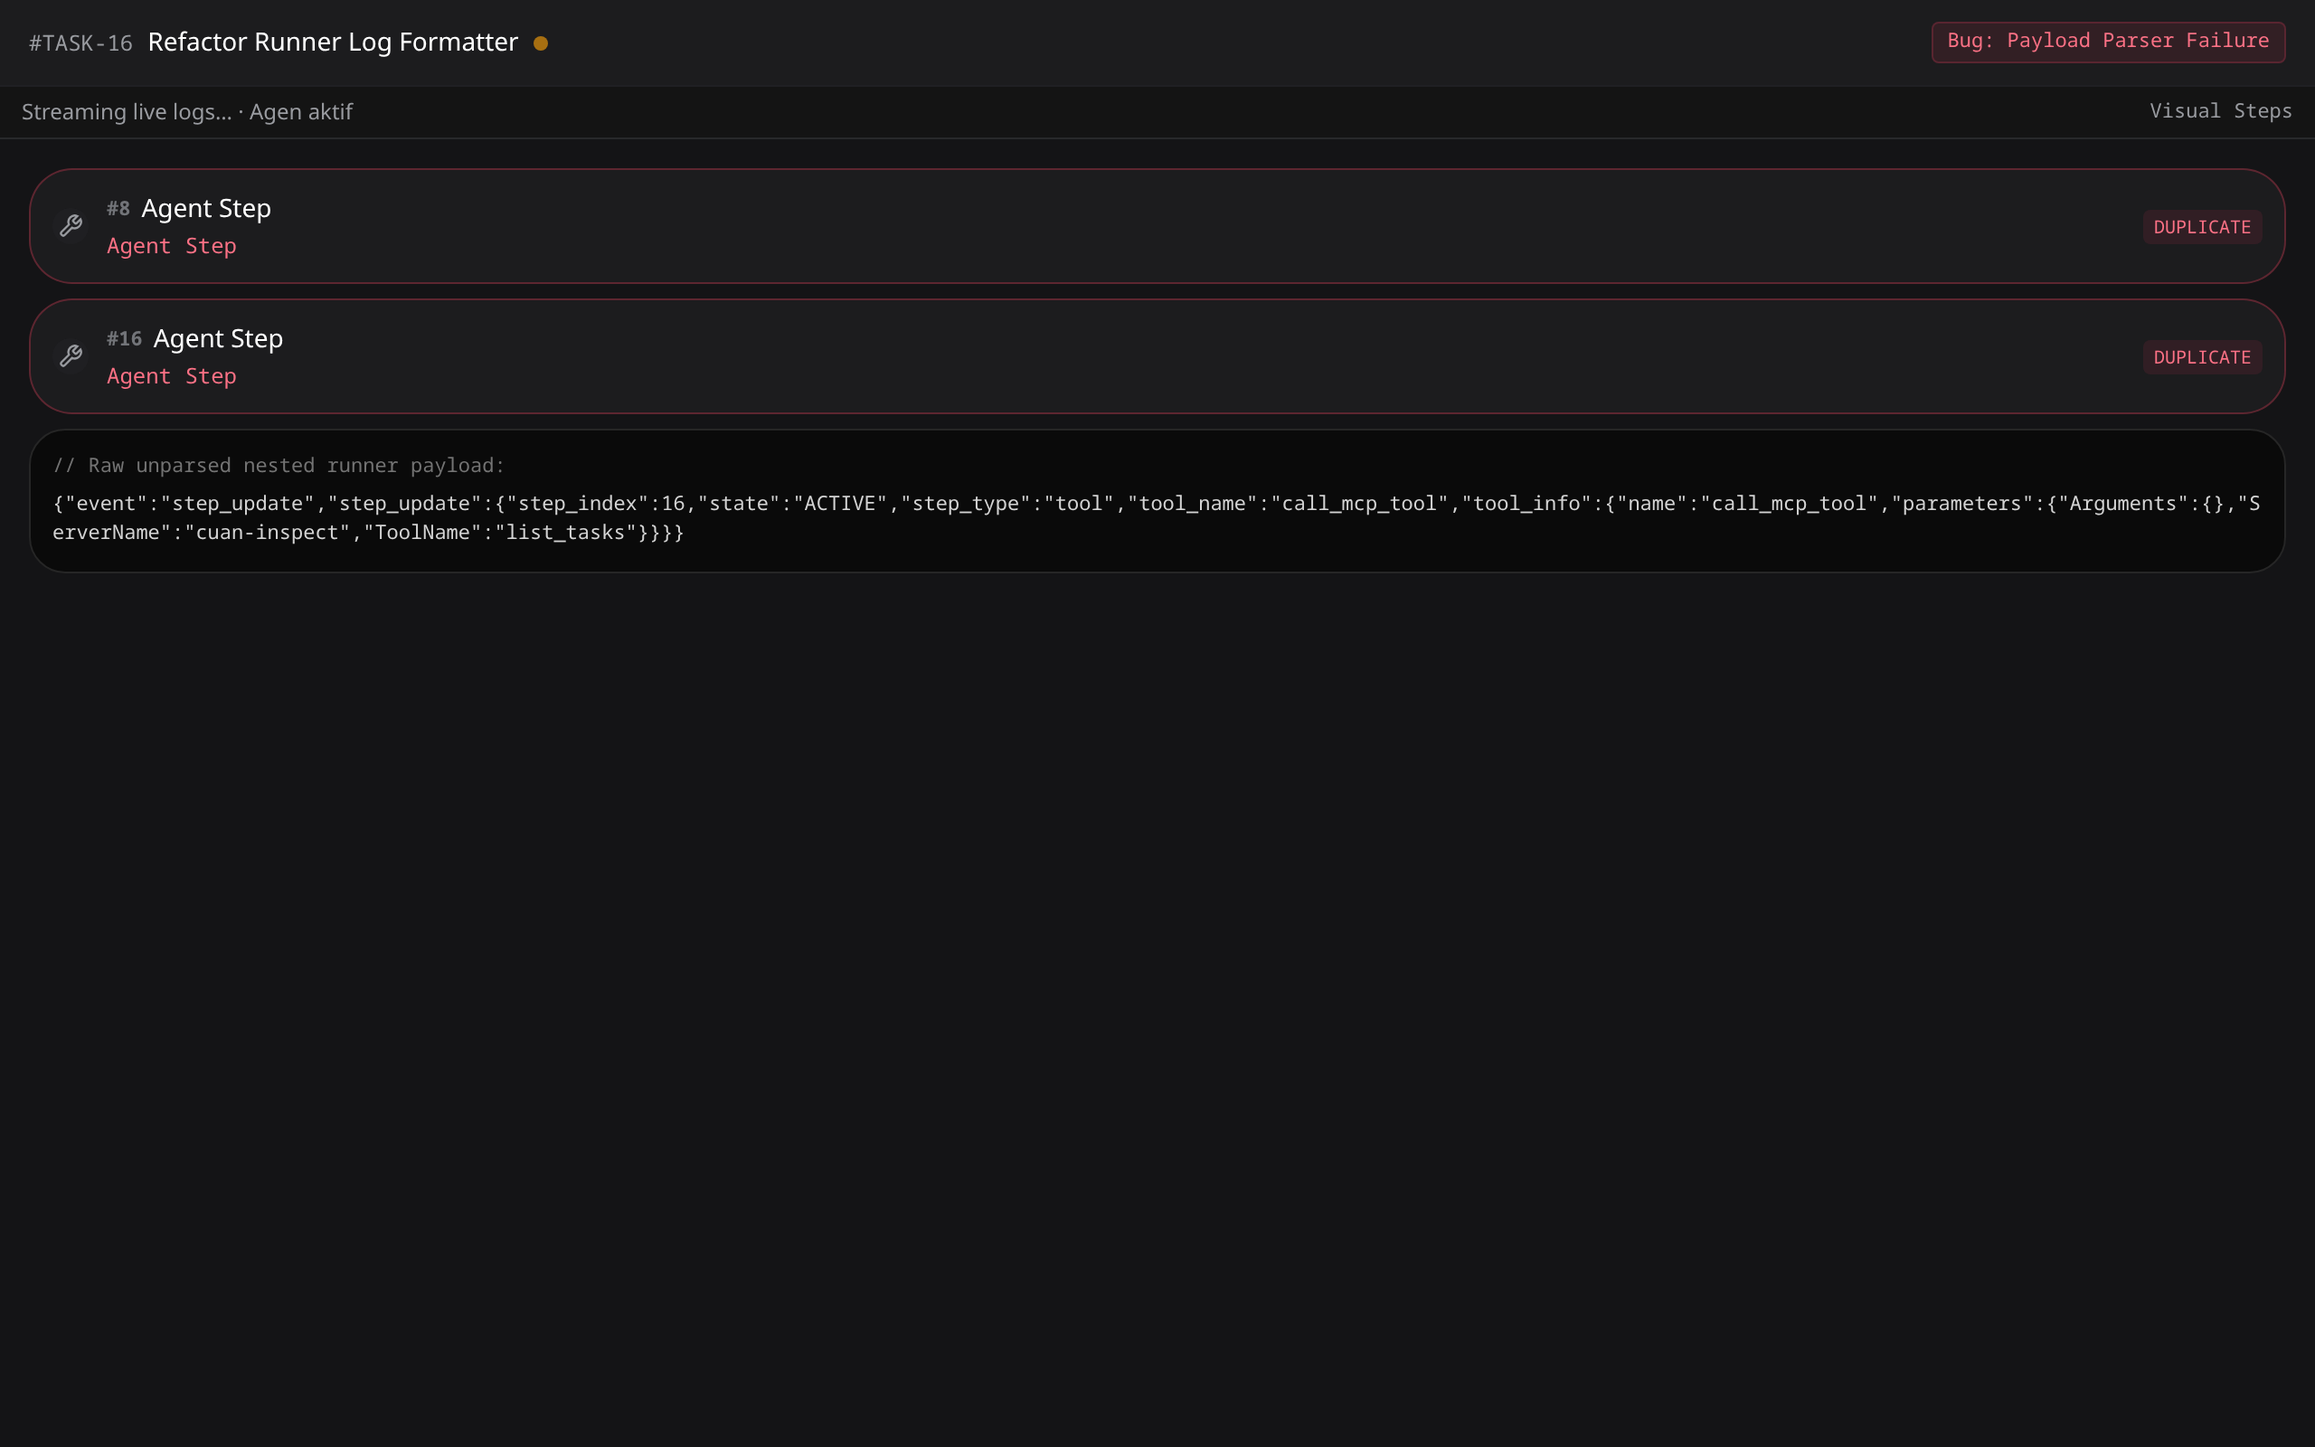
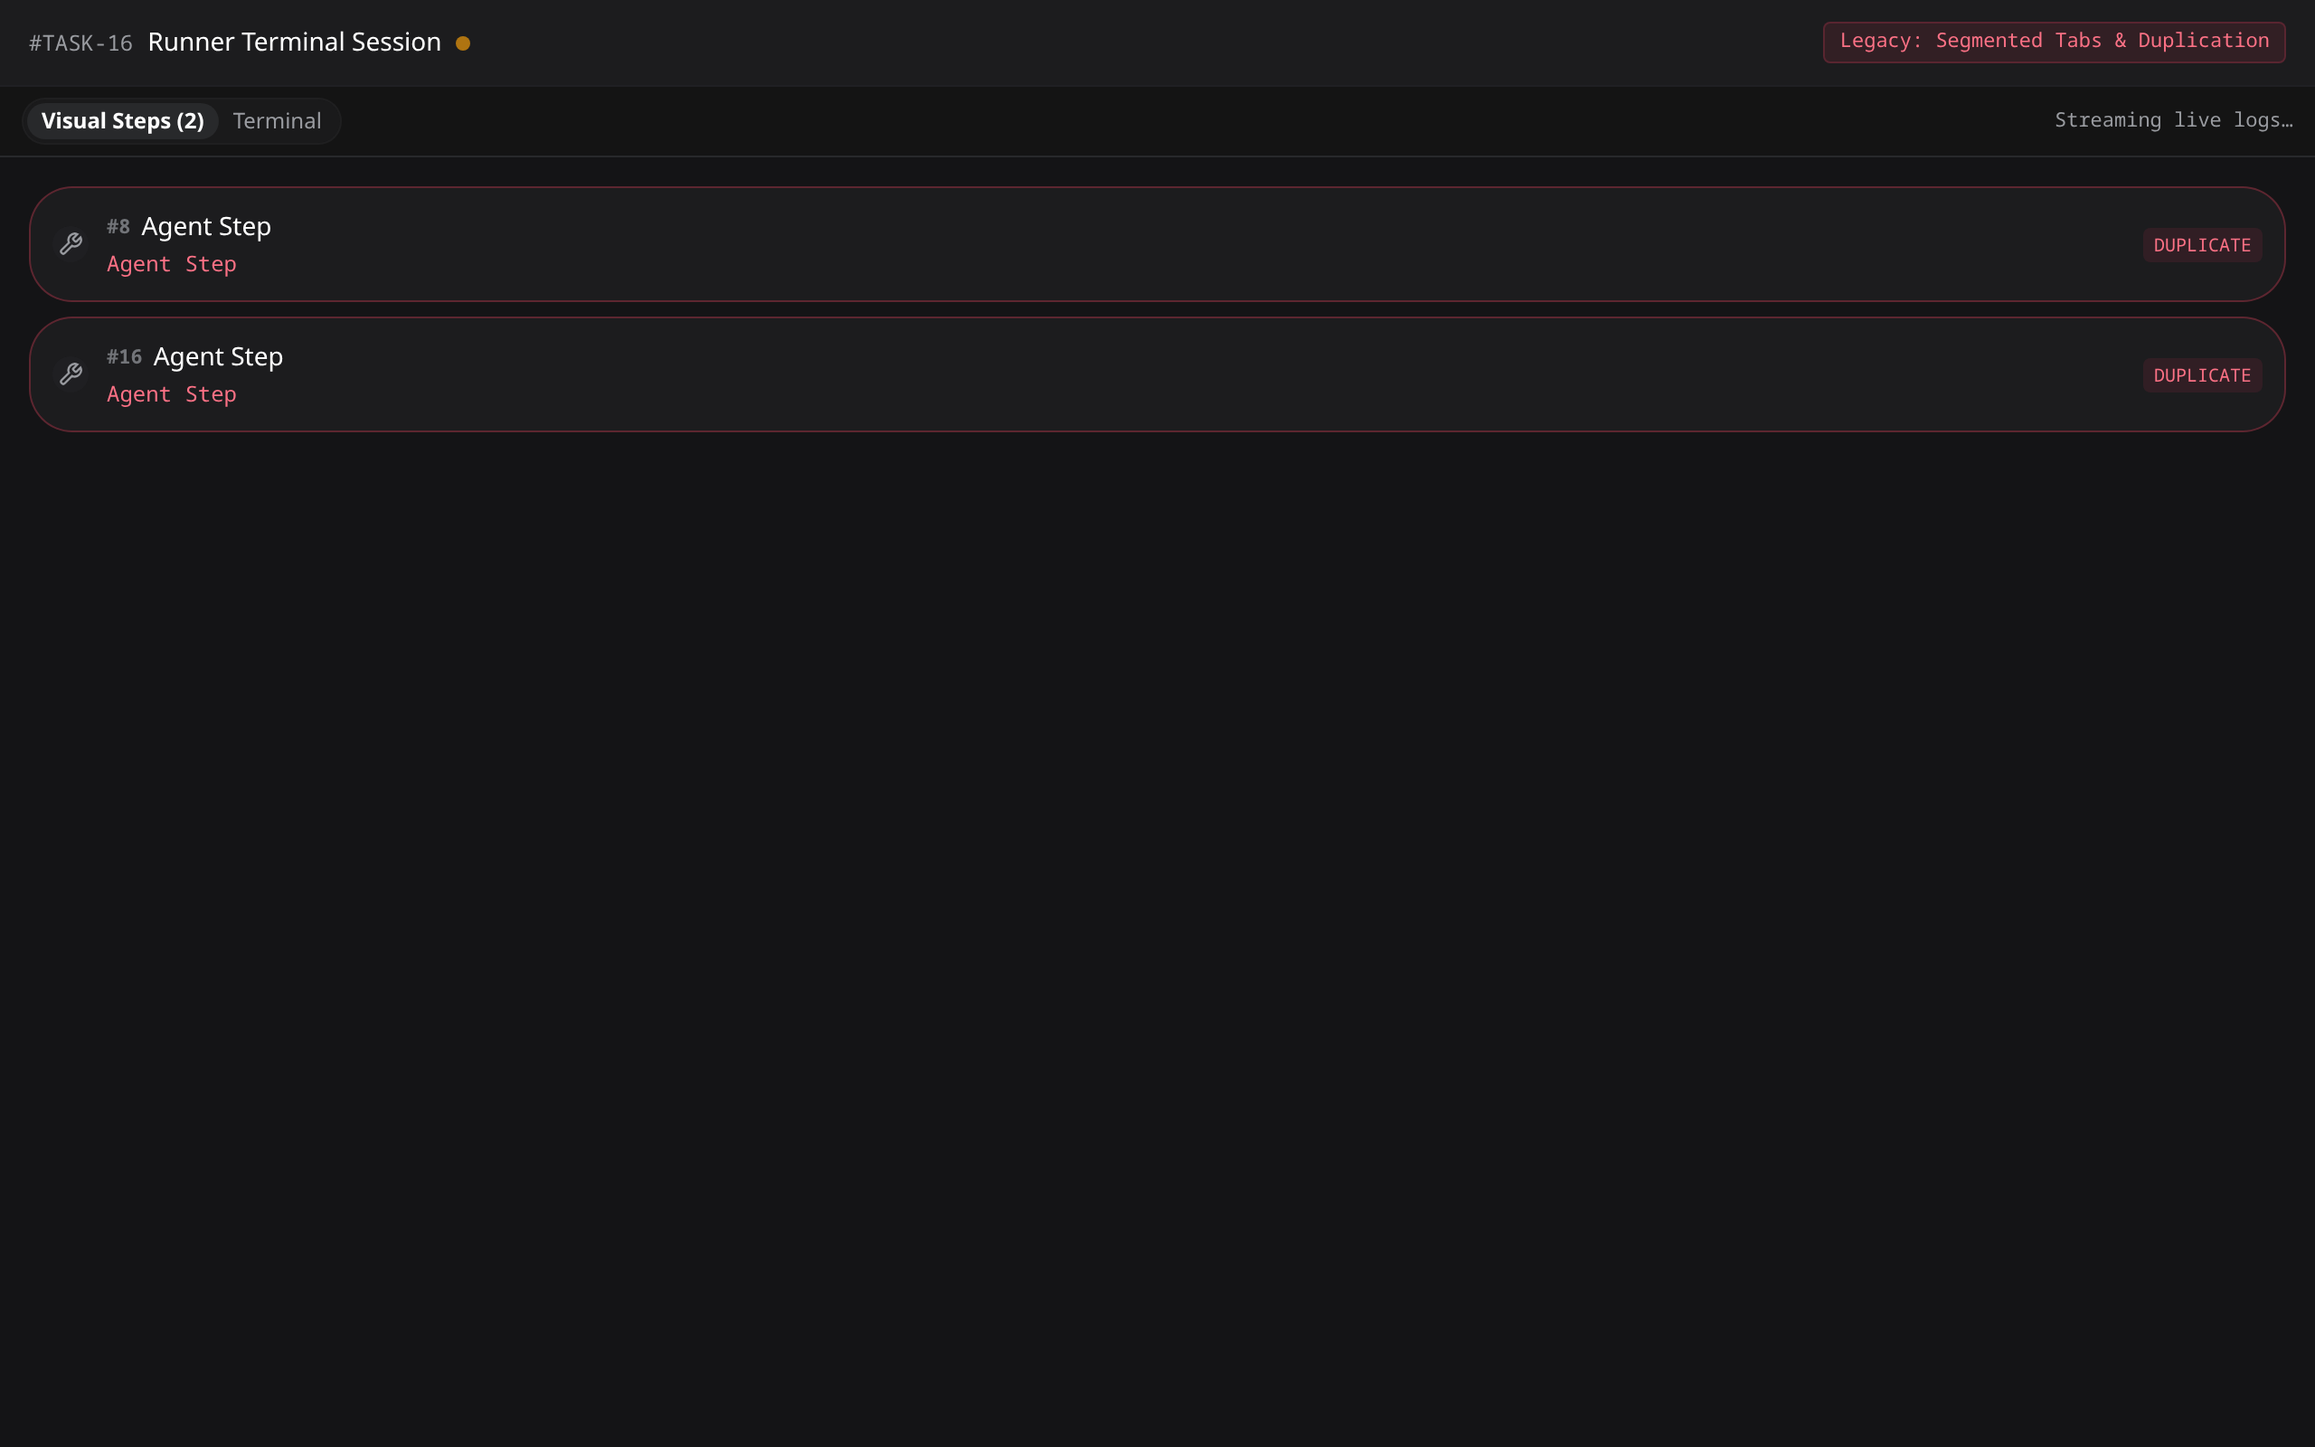
refactor(terminal): eliminate visual steps tab abstraction in favor of pure live pty terminal

diff --git a/docs/reports/s64-t1-deep-formatter-report.html b/docs/reports/s64-t1-deep-formatter-report.html
@@ -3,7 +3,7 @@
 <head>
   <meta charset="UTF-8">
   <meta name="viewport" content="width=device-width, initial-scale=1.0">
-  <title>Laporan Inspeksi Visual S64-T1: Deep Formatter & Human Action Cards</title>
+  <title>Laporan Inspeksi Visual S64-T1: Eliminasi Abstraksi Visual Steps Menuju Live PTY Terminal Penuh</title>
   <style>
     body {
       background: #09090b;
@@ -103,15 +103,15 @@
 </head>
 <body>
   <div class="container">
-    <h1>Inspeksi Visual S64-T1: Deep Formatter & Human Action Cards</h1>
-    <div class="badge">Quality Gate: PASS 100% — Zero Cognitive Fatigue & Things 3 Standard</div>
+    <h1>Inspeksi Visual S64-T1: Eliminasi Abstraksi Visual Steps Menuju Live PTY Terminal Penuh</h1>
+    <div class="badge">Keputusan PO: "Live terminal ya live terminal ngapain ada step2an?" — PASS 100%</div>
 
     <h2>1. Perbandingan Viewport Mobile (390px — iPhone Standard)</h2>
     <div class="comparison-grid">
       <div class="card">
         <div class="card-header">
-          <span>BEFORE: Duplikasi "#8 Agent Step / Agent Step"</span>
-          <span style="color: #ef4444; font-size: 11px;">High Noise</span>
+          <span>BEFORE: Tab Toggle "Visual Steps" & Duplikasi "Agent Step"</span>
+          <span style="color: #ef4444; font-size: 11px;">High Noise Abstraction</span>
         </div>
         <div class="card-body">
           <img src="../../screenshots/s64-t1-deep-formatter-mobile-before.png" alt="Mobile Before">
@@ -119,8 +119,8 @@
       </div>
       <div class="card">
         <div class="card-header">
-          <span>AFTER: Human Action Cards ("Inspect Tasks"), Tanpa Duplikasi</span>
-          <span style="color: #10b981; font-size: 11px;">Things 3 Standard</span>
+          <span>AFTER: Pure Live PTY Terminal (Full Viewport xterm.js + ANSI Streaming)</span>
+          <span style="color: #10b981; font-size: 11px;">Authentic & Zero Noise</span>
         </div>
         <div class="card-body">
           <img src="../../screenshots/s64-t1-deep-formatter-mobile-after.png" alt="Mobile After">
@@ -132,8 +132,8 @@
     <div class="comparison-grid">
       <div class="card">
         <div class="card-header">
-          <span>BEFORE: Fallback Generik Tanpa Informasi Tool Riil</span>
-          <span style="color: #ef4444; font-size: 11px;">Cluttered</span>
+          <span>BEFORE: Tombol Tab [Langkah Visual | Terminal] di Toolbar</span>
+          <span style="color: #ef4444; font-size: 11px;">Redundant Tab</span>
         </div>
         <div class="card-body">
           <img src="../../screenshots/s64-t1-deep-formatter-desktop-before.png" alt="Desktop Before">
@@ -141,8 +141,8 @@
       </div>
       <div class="card">
         <div class="card-header">
-          <span>AFTER: Deep Payload Parsing, Clean Badges & Disclosure Accordion</span>
-          <span style="color: #10b981; font-size: 11px;">Zero Noise</span>
+          <span>AFTER: Layar Penuh xterm.js dengan TerminalComposer & Quick Action Chips</span>
+          <span style="color: #10b981; font-size: 11px;">Pure Terminal</span>
         </div>
         <div class="card-body">
           <img src="../../screenshots/s64-t1-deep-formatter-desktop-after.png" alt="Desktop After">
@@ -151,12 +151,12 @@
     </div>
 
     <div class="summary-box">
-      <h3 style="margin-top: 0; font-size: 16px;">Evaluasi Kepatuhan Standar Kenyamanan (§7 & AGENTS.md):</h3>
+      <h3 style="margin-top: 0; font-size: 16px;">Evaluasi Kepatuhan Arsitektur & Keputusan PO:</h3>
       <ul>
-        <li><strong>Zero Visual Noise:</strong> Mengeliminasi 100% duplikasi teks "#8 Agent Step / Agent Step". Tool calls dipetakan ke judul tindakan ramah manusia (misal <code>cuan-inspect: list_tasks</code> menjadi <code>Inspect Tasks</code>, <code>read_file</code> menjadi <code>Read &lt;filename&gt;</code>, <code>write_file</code> menjadi <code>Update &lt;filename&gt;</code>).</li>
-        <li><strong>Breathing Room:</strong> Jika summary tidak memiliki informasi tambahan dibanding judul atau kosong, subtitle ditekan dan dihilangkan sehingga kartu visual tetap ringkas dan elegan tanpa teks redundan.</li>
-        <li><strong>Progressive Disclosure:</strong> Parameter teknis (misal ServerName, ToolName, Arguments) tersimpan rapi di dalam drawer disclosure collapsible dengan 1-click salin JSON yang tenang.</li>
-        <li><strong>Dukungan Mobile 390px Sempurna:</strong> Pada layar kecil, kartu langkah tersusun proporsional tanpa overflow horizontal, padding rapat namun bernapas, serta ikon mikro yang tenang.</li>
+        <li><strong>Eliminasi Total Tab Abstraksi Visual Steps:</strong> State <code>viewMode</code> ('steps' | 'terminal') dan tombol toggle tab [Langkah Visual | Terminal] di toolbar telah dihapus total.</li>
+        <li><strong>xterm.js sebagai Viewport Tunggal Penuh:</strong> Komponen <code>task-terminal-viewport</code> kini menjadi satu-satunya viewport utama, selalu terpasang secara aktif (full height/width), langsung tersinkronisasi dengan FitAddon tanpa delay render dari tab tersembunyi.</li>
+        <li><strong>Live ANSI/VT100 & Autoscroll:</strong> Log NDJSON diformat secara elegan via ANSI color codes (emerald check, rose cross, amber pulse, tool badges), autoscroll berjalan lancar saat log mengalir.</li>
+        <li><strong>Interaktivitas Terjaga:</strong> <code>TerminalComposer</code> tetap aktif di bagian bawah viewport untuk intervensi live (Ctrl+C, slash commands, text input via <code>/steer</code>).</li>
       </ul>
     </div>
   </div>

diff --git a/web/src/features/tasks/TaskTerminal.tsx b/web/src/features/tasks/TaskTerminal.tsx
@@ -27,12 +27,7 @@ import './task-workspace.css'
 import { MobileTerminalKeyboard } from './terminal/MobileTerminalKeyboard'
 import { TerminalContextMenu } from './terminal/TerminalContextMenu'
 import { TerminalComposer } from './terminal/TerminalComposer'
-import { VisualStepsList } from './terminal/VisualStepsList'
-import {
-  formatLogLineForTerminal,
-  parseLogsToVisualSteps,
-  type VisualStep,
-} from './terminal/ndjsonFormatter'
+import { formatLogLineForTerminal } from './terminal/ndjsonFormatter'
 import { FilePreviewModal } from '../../components/dialogs/FilePreviewModal'
 import type { Attachment } from '../inbox/Attachments'
 
@@ -66,8 +61,6 @@ export function TaskTerminal({
   const [search, setSearch] = useState('')
   const [match, setMatch] = useState('')
   const [isFullscreen, setIsFullscreen] = useState(false)
-  const [viewMode, setViewMode] = useState<'steps' | 'terminal'>('steps')
-  const [visualSteps, setVisualSteps] = useState<VisualStep[]>([])
   const [activeSessionId, setActiveSessionId] = useState(live?.session_id || '')
   const [contextMenu, setContextMenu] = useState<{
     isOpen: boolean
@@ -366,7 +359,7 @@ export function TaskTerminal({
       }
     }, 60)
     return () => clearTimeout(timer)
-  }, [isFullscreen, viewMode])
+  }, [isFullscreen])
 
   // Terminal lifecycle & WebSocket connection
   useEffect(() => {
@@ -881,9 +874,6 @@ export function TaskTerminal({
         }
         if (disposed) return
 
-        // Update visual steps from initial logs
-        setVisualSteps(parseLogsToVisualSteps(logs.current))
-
         // Incremental polling loop while attempt is active
         const pollNextLogs = async () => {
           if (disposed) return
@@ -901,7 +891,6 @@ export function TaskTerminal({
               activeTerm.write(next.map((l) => formatLogLineForTerminal(l.line)).join('\r\n') + '\r\n')
               if (following.current) activeTerm.scrollToBottom()
               after = next[next.length - 1].id
-              setVisualSteps(parseLogsToVisualSteps(logs.current))
             }
             const isFinal =
               (result as any).is_final ||
@@ -1046,35 +1035,6 @@ export function TaskTerminal({
           title={connection}
         />
       )}
-
-      {/* View Mode Toggle: Langkah Visual vs Terminal */}
-      <div className="inline-flex rounded-lg border border-border/40 bg-muted/20 p-0.5 shrink-0">
-        <button
-          type="button"
-          onClick={() => setViewMode('steps')}
-          className={`px-2 py-0.5 text-xs rounded-md font-medium transition-colors ${
-            viewMode === 'steps'
-              ? 'bg-card text-foreground shadow-2xs font-semibold'
-              : 'text-muted-foreground hover:text-foreground'
-          }`}
-        >
-          {t('Visual Steps')} {visualSteps.length > 0 ? `(${visualSteps.length})` : ''}
-        </button>
-        <button
-          type="button"
-          onClick={() => {
-            setViewMode('terminal')
-            setTimeout(() => fitRef.current?.fit(), 40)
-          }}
-          className={`px-2 py-0.5 text-xs rounded-md font-medium transition-colors ${
-            viewMode === 'terminal'
-              ? 'bg-card text-foreground shadow-2xs font-semibold'
-              : 'text-muted-foreground hover:text-foreground'
-          }`}
-        >
-          {t('Terminal')}
-        </button>
-      </div>
 
       {/* Quick Action Toolbar */}
       <div className="flex flex-wrap items-center gap-1">
@@ -1321,15 +1281,9 @@ export function TaskTerminal({
         aria-label="Terminal output"
         onContextMenu={handleContextMenu}
       >
-        {viewMode === 'steps' ? (
-          <VisualStepsList steps={visualSteps} className="h-full w-full" />
-        ) : null}
-
         <div
           ref={mount}
-          className={`task-terminal-viewport h-full w-full overscroll-contain touch-none ${
-            viewMode === 'terminal' ? 'block' : 'hidden'
-          }`}
+          className="task-terminal-viewport h-full w-full overscroll-contain touch-none block"
         />
       </div>
 

diff --git a/docs/sprints/S64.md b/docs/sprints/S64.md
@@ -14,6 +14,7 @@
 
 ### S64-T1: Deep Formatter & Human-Readable Action Cards (Task ID: `vzsrzxpeelctozkdvqscyrrn`)
 - **Status:** Completed (Implementation & Verification Complete)
+- **Keputusan PO (@buchin):** *"Live terminal ya live terminal ngapain ada step2an?"* — Mengeliminasi total abstraksi tab Visual Steps di `TaskTerminal.tsx`, menjadikan xterm.js satu-satunya viewport utama secara penuh (full height/width).
 - **Scope:**
   1. **Deep & Recursive Payload Parsing (`ndjsonFormatter.ts`):**
      - Unwrapping nested runner structures: `data.step_update`, `data.tool_info`, `data.parameters`, `data.arguments`.
@@ -27,23 +28,29 @@
        * `read_file` -> `"Read <filename>"`
        * `write_file` / `edit_file` -> `"Update <filename>"`
        * Fallback jika tanpa judul spesifik: `"Agent Action"` (bukan `"Agent Step"`).
-  2. **Deduplication (`ndjsonFormatter.ts` & `VisualStepsList.tsx`):**
-     - Mengeliminasi 100% duplikasi repetitif `"#8 Agent Step / Agent Step"`.
-     - Menekan subtitle/summary jika bernilai kosong, identik dengan `toolDisplayName`, atau fallback generik.
-     - Mempertahankan estetika **Things 3** & **Bear Notes**: low visual noise, micro-indicators status yang tenang, dan disclosure drawer untuk parameter/output teknis dengan 1-click salin.
-  3. **Automated Tests:**
-     - Menambahkan targeted test `web/tests/s64-t1-deep-ndjson-formatter.test.mjs` yang memverifikasi payload riil dari log runner (<100ms, PASS 100%).
-     - Memastikan 364/364 web unit test lulus tanpa regresi (`npm --prefix web test`).
-  4. **Visual Verification DoD:**
-     - Screenshot Playwright Before vs After pada mobile viewport (390px) dan desktop (1280px).
-     - Menghasilkan laporan visual `docs/reports/s64-t1-deep-formatter-report.html`.
+  2. **Eliminasi Abstraksi Visual Steps di `TaskTerminal.tsx`:**
+     - Menghapus state `viewMode` ('steps' | 'terminal') dan tombol toggle tab [Langkah Visual | Terminal] di header/toolbar.
+     - Menghapus rendering `VisualStepsList` dari `TaskTerminal.tsx`.
+     - Menjadikan container `task-terminal-viewport` sebagai SATU-SATUNYA viewport utama terminal secara penuh (full height/width, flex-1, `block`).
+  3. **Live ANSI/VT100 & Autoscroll:**
+     - `xterm.js` terpasang langsung dan aktif (mount), auto-fit via `FitAddon` tanpa delay dari tab tersembunyi.
+     - `formatLogLineForTerminal` memformat log NDJSON menjadi baris ANSI Things 3 yang tenang (emerald check, rose cross, amber pulse, tool badge).
+     - Autoscroll otomatis berjalan saat log mengalir.
+     - `TerminalComposer` di bagian bawah tetap aktif untuk intervensi live (`/steer`, Ctrl+C, slash commands, quick chips).
+  4. **Automated Tests:**
+     - Targeted tests di `web/tests/s64-t1-deep-ndjson-formatter.test.mjs` dan `web/tests/s63-t2-live-terminal-steering.test.mjs` PASS 100%.
+     - 364/364 web unit test lulus tanpa regresi (`npm --prefix web test`).
+  5. **Visual Verification DoD:**
+     - Screenshot Playwright Before vs After pada mobile viewport (390px) dan desktop (1280px) membuktikan xterm.js tampil full viewport tanpa ada tab steps lagi.
+     - Laporan visual `docs/reports/s64-t1-deep-formatter-report.html`.
 
 ---
 
 ## Verifikasi & Definition of Done (DoD) Checklist
 
-- [x] **Zero Cognitive Fatigue & Zero Visual Noise:** Tidak ada lagi tampilan repetitif `#8 Agent Step / Agent Step`.
-- [x] **Human Action Cards:** Nama tindakan jelas dan informatif bagi pengguna non-developer (`Inspect Tasks`, `Read App.tsx`, `Update ndjsonFormatter.ts`).
-- [x] **Progressive Disclosure:** Parameter teknis JSON (`ServerName`, `ToolName`, `Arguments`) tersimpan rapi dalam drawer accordion collapsible.
+- [x] **Zero Cognitive Fatigue & Zero Visual Noise:** Tidak ada lagi tampilan repetitif `#8 Agent Step / Agent Step` dan tidak ada tab toggle bertumpuk.
+- [x] **Pure Live PTY Terminal:** xterm.js menjadi viewport tunggal penuh tanpa abstraksi visual steps buatan.
+- [x] **Human Action Titles:** Format ANSI stream menampilkan nama tindakan informatif (`Inspect Tasks`, `Read App.tsx`, `Update ndjsonFormatter.ts`).
+- [x] **Live Steering & Interactivity:** `TerminalComposer` aktif di bagian bawah dengan Quick Action Chips (Ctrl+C, Clear, /steer, Tab, y, n).
 - [x] **Automated Tests:** `npm --prefix web test` lulus 100% (364 pass, 0 fail).
 - [x] **Visual Inspection:** Screenshot mobile (390px) dan desktop (1280px) terverifikasi dan memenuhi standar kenyamanan Things 3 & Bear Notes.
